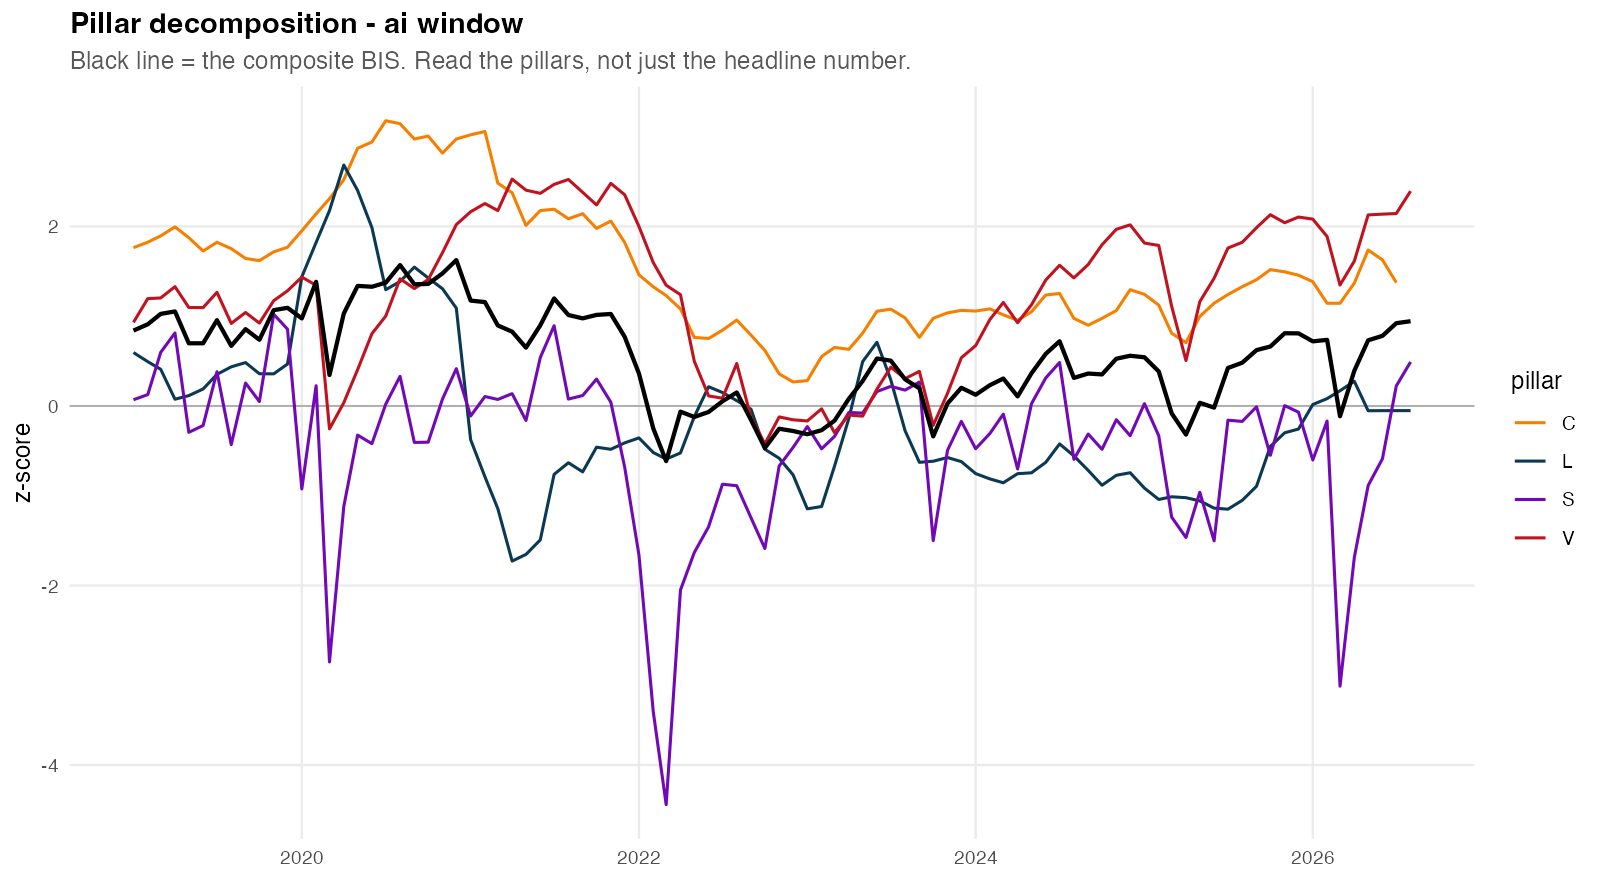
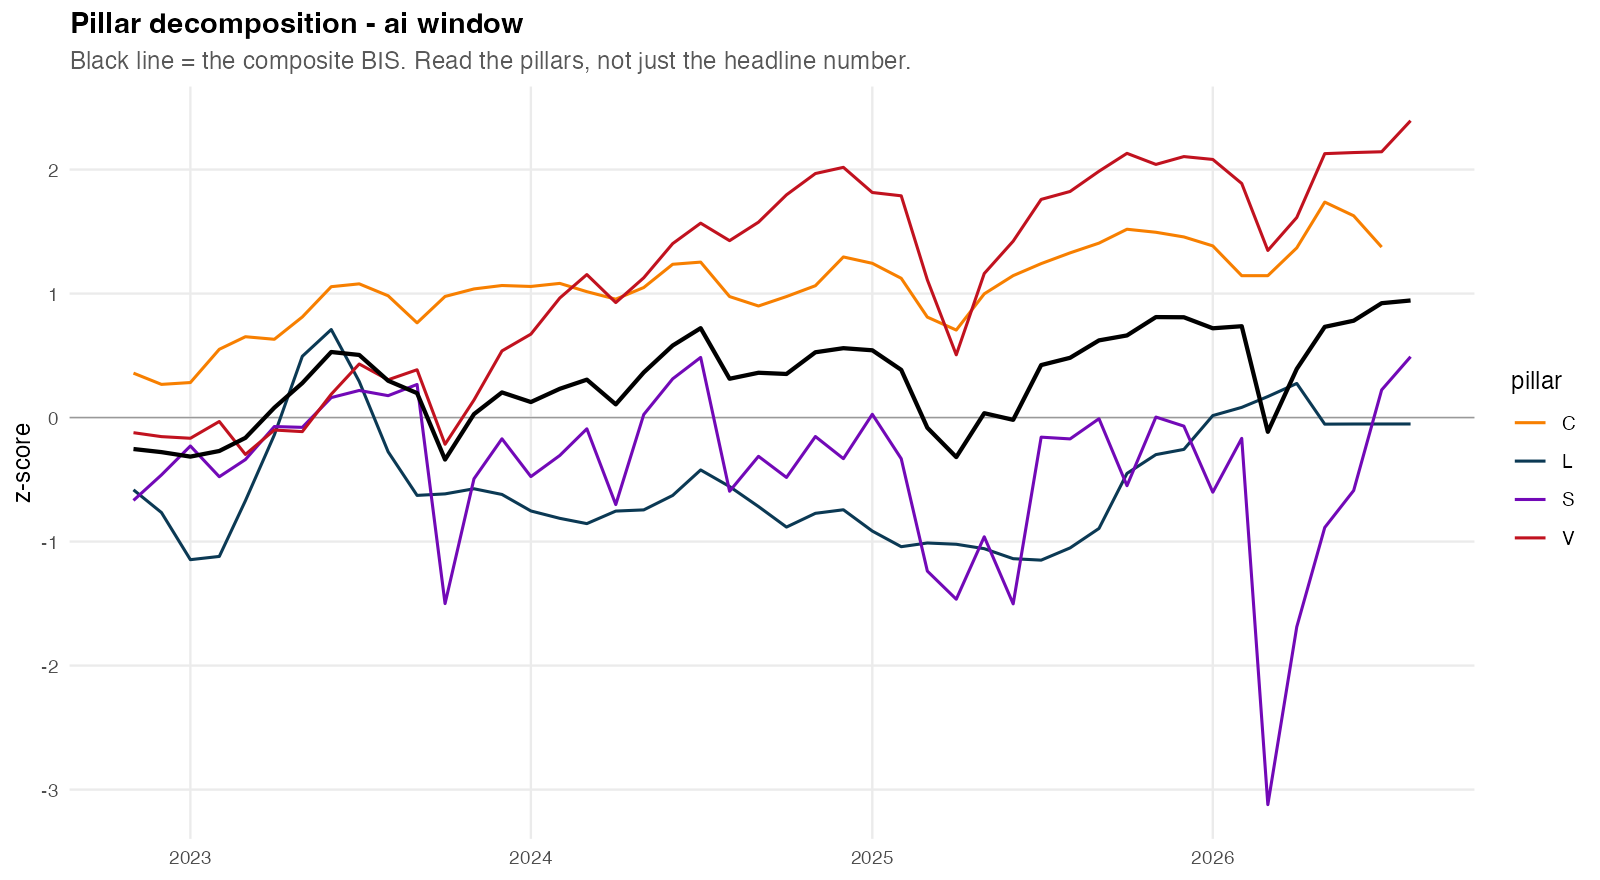
AI window starts November 2022, v1.2.0
The AI-era window opened in 2019-01, which put the index's 2020 readings
(the pandemic period) inside the AI era. Following an advisor's review it
now opens in 2022-11, the month ChatGPT was launched.

- R/00_setup.R: AI window starts 2022-11
- R/04_bis.R: computes the AI era's signature month (latest month with all
  four pillars and both sentiment indicators; June 2026 with the paper's data)
- R/05_backtest.R: scorecard row 5 reports that reading and the window maximum
- R/06_figures.R: Figure 1 bands read from WINDOWS and the December 2020 peak
  is labelled pandemic-era; Figure 3 takes the AI era at its signature month
- README and CITATION updated; outputs and three figures regenerated

The method, the data, the Dot-com and GFC windows and criteria 1 to 4 are
unchanged.

diff --git a/README.md b/README.md
@@ -48,6 +48,20 @@ The tables it writes match the files committed in `output/`; on some computers t
 
 The run also prints a hand check for March 2000: the number of CAPE values in the trailing window, their mean and population standard deviation, the resulting z-score, and the four pillars with their average, so the reading can be redone on a calculator. After `source("run_all.R")` in R, `hand_check("2008-09")` repeats it for any month.
 
+## The three analysis windows
+
+| Window | Months | Signature month in the comparison table and Figure 3 |
+|---|---|---|
+| Dot-com | 1995-01 to 2003-12 | the composite's peak (February 2000) |
+| GFC | 2003-01 to 2010-12 | the leverage pillar's peak (December 2007) |
+| AI era | 2022-11 to the newest month | the latest month with all four pillars and both sentiment indicators (June 2026) |
+
+The windows are set in `WINDOWS` in `R/00_setup.R`. The AI window opens with the launch of ChatGPT on 30 November 2022.
+
+The AI era is not over, so it has no peak to report. Its row in the comparison table is the latest month in which all four pillars have a value and the sentiment pillar has both the VIX and the GPR. With the paper's data that month is June 2026: July 2026 has no GPR value, and August 2026 has no GPR and no concentration value. The rule is computed in `R/04_bis.R`, not typed in. The NFCI leverage file ends in April 2026, so in June 2026 the leverage pillar rests on corporate debt growth alone.
+
+The index was at or above its +1.5 warning line in August 2020 (+1.57) and December 2020 (+1.63), the only such months outside 1999 to 2000. They fall in the pandemic period, before the AI window opens, and no output counts them as part of the AI era. They are in `bis_panel_monthly.csv`, they are "BIS episode 2" in `fama_forecast_test.csv`, and Figure 1 labels the December 2020 peak.
+
 ## Newer data: the refresh run
 
 ```
@@ -68,6 +82,8 @@ How the refresh gets its data:
 - Corporate debt is quarterly and is published about ten weeks after a quarter ends, so its last published quarter is carried forward to the newest month.
 
 Refreshed results will differ from the paper. New months are added at the end, and the sources revise their history: GPR revises recent months, multpl.com revises recent CAPE values as earnings are reported, and each quarterly Z.1 release revises corporate debt. In a test refresh on 29 September 2026 (FRED was unreachable, so a Nasdaq file from Yahoo Finance and the paper's corporate debt file were supplied by hand), the sentiment pillar changed from April 2025 on and valuation from May 2026 on, the composite moved by up to 0.21, and all Dot-com and GFC results stayed the same. The Chicago Fed's NFCI file still ended in April 2026, so the leverage pillar used corporate debt alone after that month.
+
+In a refresh the AI window runs to the newest month, and its row in the comparison table moves to the newest month that has all four pillars and both sentiment indicators.
 
 ## Index versions and the prototype check
 
@@ -117,18 +133,35 @@ The raw VIX, Nasdaq, multpl.com and GPR files are not redistributed here; the re
 |---|---|
 | `bis_panel_monthly.csv` | Every monthly reading: indicator z-scores, pillars and the BIS (Chapters 4 to 6, Figure 1) |
 | `bis_windows.csv` | The three analysis windows (Figures 2a to 2c); the run prints their Section 4.5 descriptive statistics |
-| `backtest_scorecard.csv` | Section 5.1 scorecard, Table B3 |
-| `bis_comparison_table.csv` | Section 5.5 three-way comparison, Figure 3 |
+| `backtest_scorecard.csv` | Section 5.1 scorecard, Table B3. Row 5 gives the AI era's reading at its signature month and the highest reading in the window |
+| `bis_comparison_table.csv` | Section 5.5 three-way comparison, Figure 3: one row per window at its signature month |
 | `sensitivity.csv` | Section 5.6 weighting table, Table B1 |
 | `lookback_sensitivity.csv` | Table B2 (the Dot-com rows) |
 | `gpr_variance_test.csv` | Section 5.6, the sentiment upgrade |
-| `fama_forecast_test.csv` | Sections 2.4 and 5.4, Fama's forecast-date test |
+| `fama_forecast_test.csv` | Sections 2.4 and 5.4, Fama's forecast-date test. Episode 1 is the Dot-com warning, episode 2 the 2020 warning |
 | `anchor_check.csv` | Section 4.6, the check against the prototype |
 | `figures/fig_bis_history.png` | Figure 1 |
 | `figures/fig_pillars_dotcom.png`, `fig_pillars_gfc.png`, `fig_pillars_ai.png` | Figures 2a, 2b, 2c |
 | `figures/fig_threeway.png` | Figure 3 |
 | `figures/fig_sentiment_v2.png` | Figure 4 |
 | `figures/fig_catalyst_timeline.png` | The S&P 500 with three external triggers (Section 2.3); not a numbered figure |
+
+The window peaks in `sensitivity.csv`, `lookback_sensitivity.csv` and row 5 of the scorecard use every month of a window. For the AI window that includes July and August 2026, whose readings rest on fewer indicators: the highest reading in the window, +0.94 in August 2026, is the mean of three pillars.
+
+## Changes in v1.2.0
+
+The AI window now starts in November 2022, the month ChatGPT was launched. Up to v1.1.0 it started in January 2019, which put the index's 2020 readings, taken during the pandemic, inside the AI era. The change follows an advisor's review of the paper. The method, the data, the Dot-com and GFC windows and the five criteria are the same as in v1.1.0.
+
+- `R/00_setup.R`: the AI window starts in `2022-11`.
+- `R/04_bis.R`: computes the AI era's signature month, the latest month with all four pillars and both sentiment indicators (June 2026 with the paper's data).
+- `R/05_backtest.R`: row 5 of the scorecard reports the reading at that month and the highest reading in the window. Criterion 5 was reported, not scored, so criteria 1 to 4 and their results are unchanged.
+- `R/06_figures.R`: the shaded bands of Figure 1 are read from `WINDOWS`, Figure 1 labels the December 2020 peak as pandemic-era, and Figure 3 and the comparison table take the AI era at its signature month. Up to v1.1.0 they took it at the window's peak, December 2020.
+
+Outputs that changed: `bis_windows.csv` (the AI rows now run from 2022-11; the 46 rows from 2019-01 to 2022-10 are gone), the AI row of `bis_comparison_table.csv`, row 5 of `backtest_scorecard.csv`, the AI rows of `sensitivity.csv`, `lookback_sensitivity.csv` and `gpr_variance_test.csv`, and the figures `fig_bis_history.png`, `fig_pillars_ai.png` and `fig_threeway.png`.
+
+Outputs that did not change: `bis_panel_monthly.csv`, `anchor_check.csv`, `fama_forecast_test.csv`, every Dot-com and GFC row of every table, and the other four figures.
+
+One result changed direction. Over the new AI window, adding the GPR to the sentiment pillar raises the pillar's standard deviation (0.54 with the VIX alone, 0.66 with both) where it lowered it over the old window (1.06 to 0.91). The difference comes from the months since the geopolitical escalation of March 2026: through February 2026 the standard deviation falls, from 0.54 to 0.48. The GPR still lowers it in the Dot-com and GFC windows, so it does so in two of the three windows.
 
 ## Limitations
 
